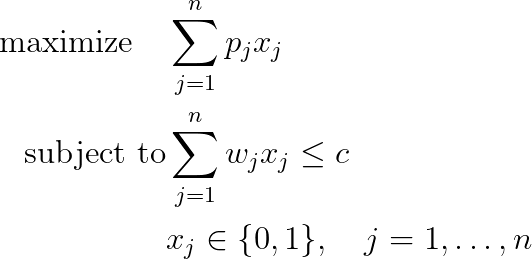
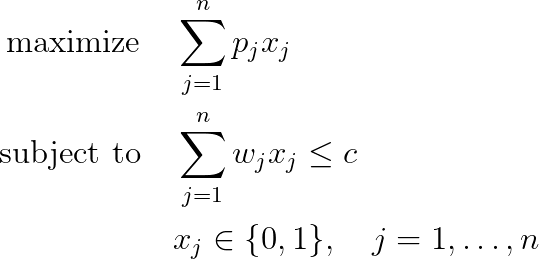
Change font size in euqations

diff --git a/01-knapsack-problem/problem.tex b/01-knapsack-problem/problem.tex
@@ -1,8 +1,7 @@
 \begin{align*}
-\text{maximize } & \sum_{j=1}^n p_j x_j \\
-\text{subject to } & \sum_{j=1}^n w_j x_j \leq c \\
+\text{maximize} \quad & \sum_{j=1}^n p_j x_j \\
+\text{subject to} \quad & \sum_{j=1}^n w_j x_j \leq c \\
 & x_j \in \lbrace 0, 1 \rbrace, \quad j = 1, \ldots,n
 \end{align*}
 
 
-https://latex.codecogs.com/png.image?\large&space;\dpi{200}\begin{align*}\text{maximize}&\sum_{j=1}^n&space;p_j&space;x_j\\\text{subject&space;to}&\sum_{j=1}^n&space;w_j&space;x_j\leq&space;c\\&x_j\in\lbrace&space;0,1\rbrace,\quad&space;j=1,\ldots,n\end{align*}
